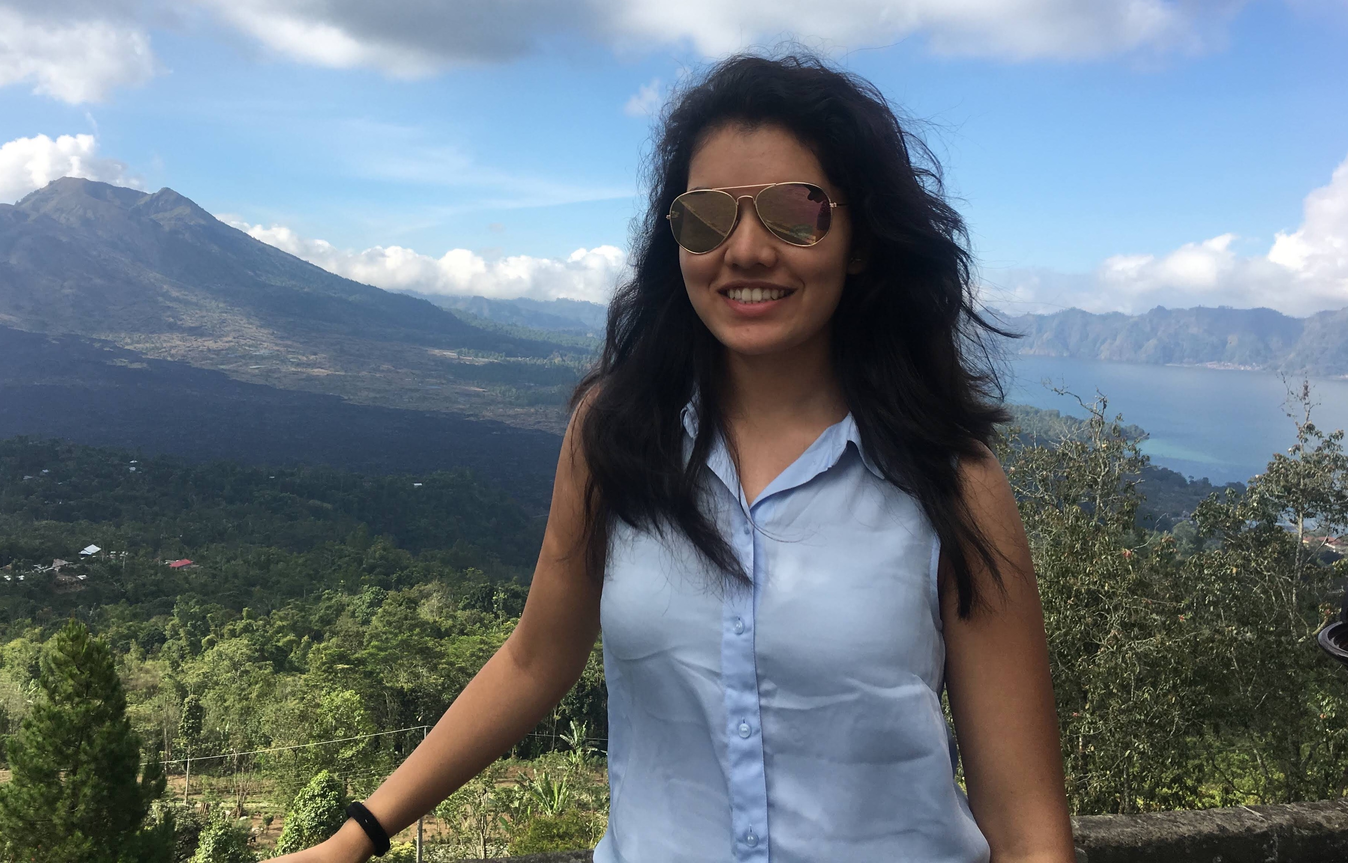
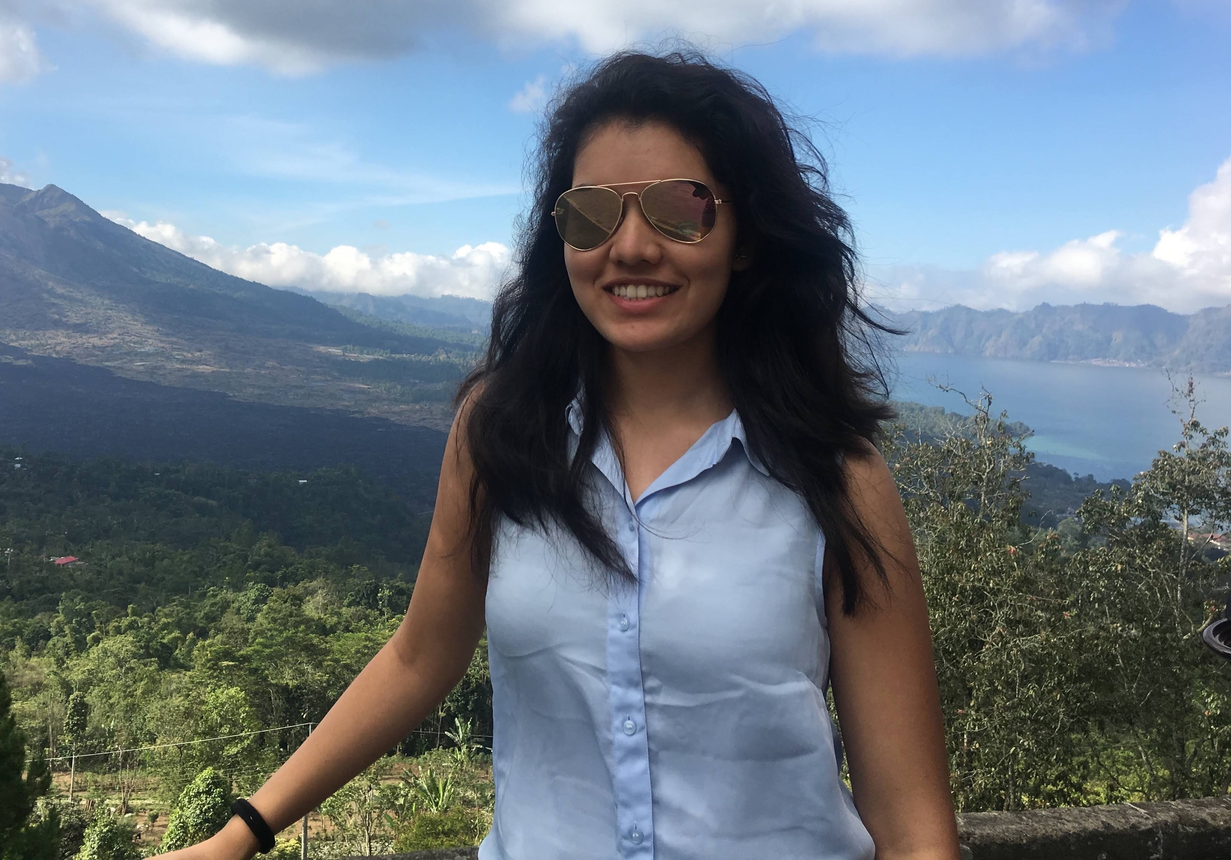
Updates on about me section

diff --git a/index.html b/index.html
@@ -25,17 +25,25 @@
     </section>
 
 
-
-	<section id="about">
-    <h2 class="section-title">About Me</h2>
-    <div class="blue-underline"></div>
-    
-    <p>My name is Swetna Tribhuvan, a Full Stack Software Engineer passionate about building comprehensive digital solutions. With over 2 years of experience, I specialize in creating scalable applications, optimizing database performance, and developing resilient systems that drive business growth and efficiency.</p>
-    
-    <p>My expertise spans across the full development stack, from crafting backend systems with Python and Java to implementing responsive frontends. I focus on delivering high-performance solutions that combine clean code architecture with exceptional user experiences, helping businesses streamline their operations and achieve their digital transformation goals.</p>
-    
-    <p>With a Master's in Computer Science from Rochester Institute of Technology, I've developed skills in cloud computing (AWS), API development, testing, and database optimization. I thrive in Agile environments and enjoy collaborating with cross-functional teams to create innovative solutions that solve complex problems.</p>
+    <section id="about">
+        <h2 class="section-title">About Me</h2>
+        <div class="blue-underline"></div>
+        
+        <div class="about-container">
+            <div class="about-text">
+                <p>My name is Swetna Tribhuvan, a Full Stack Software Engineer passionate about building comprehensive digital solutions. With over 2 years of experience, I specialize in creating scalable applications, optimizing database performance, and developing resilient systems that drive business growth and efficiency.</p>
+        
+                <p>My expertise spans across the full development stack, from crafting backend systems with Python and Java to implementing responsive frontends. I focus on delivering high-performance solutions that combine clean code architecture with exceptional user experiences, helping businesses streamline their operations and achieve their digital transformation goals.</p>
+        
+                <p>With a Master's in Computer Science from Rochester Institute of Technology, I've developed skills in cloud computing (AWS), API development, testing, and database optimization. I thrive in Agile environments and enjoy collaborating with cross-functional teams to create innovative solutions that solve complex problems.</p>
+            </div>
+            <div class="about-image">
+                <img src="images/my_image.jpg" alt="Swetna Tribhuvan">
+            </div>
+        </div>
     </section>
+    
+    
 
 <section id="professional-journey">
     <h2 class="section-title">Professional Journey</h2>

diff --git a/assets/css/style.css b/assets/css/style.css
@@ -539,20 +539,6 @@ section.active {
 }
 
 
-/* About Section */
-.blue-underline {
-    height: 4px;
-    width: 60px;
-    background-color: #4361ee;
-    margin-bottom: 2rem;
-}
-
-#about p {
-    font-size: 1.1rem;
-    line-height: 1.7;
-    color: #e0dddd;
-    margin-bottom: 1.5rem;
-}
 
 /* Professional Journey */
 #professional-journey {
@@ -690,3 +676,91 @@ section.active {
         margin-bottom: 1rem;
     }
 }
+/* About me */
+/* About Me Section */
+.about-me {
+    line-height: 1.8;
+    padding: 20px;
+    background: rgba(255, 255, 255, 0.1);
+    border-radius: 15px;
+    box-shadow: 0 8px 32px rgba(0, 0, 0, 0.1);
+    backdrop-filter: blur(4px);
+    border: 1px solid rgba(255, 255, 255, 0.1);
+    animation: pulseBackground 4s infinite alternate;
+}
+
+/* Adjusted About Section Container */
+#about {
+    display: flex;
+    flex-direction: column;
+    align-items: center;
+    text-align: center;
+    padding: 50px 20px;
+}
+
+.section-title {
+    font-size: 2.5rem;
+    margin-bottom: 20px;
+}
+
+.blue-underline {
+    width: 50px;
+    height: 3px;
+    background-color: blue;
+    margin: 0 auto 20px;
+}
+
+.about-container {
+    display: flex;
+    justify-content: space-between;
+    align-items: stretch;
+    width: 100%;
+    max-width: 1000px;
+    gap: 20px;
+}
+
+.about-text {
+    flex: 1;
+    padding-right: 20px;
+    line-height: 1.6;
+}
+
+.about-image {
+    flex-shrink: 0;
+    width: 400px;
+    height: auto;
+    display: flex;
+    justify-content: center;
+}
+
+/* Image Styling and Hover Animation */
+.about-image img {
+    width: 100%;
+    height: 100%;
+    object-fit: cover;
+    border-radius: 7px;
+    transition: transform 0.5s ease-in-out; /* Smooth transition for scaling */
+}
+
+/* Animation for the Image (on hover) */
+.about-image img:hover {
+    animation: imageAnimate 1s ease-in-out forwards;
+}
+
+/* Keyframes for Image Animation */
+@keyframes imageAnimate {
+    0% {
+        transform: scale(1);
+        opacity: 1;
+    }
+    /* 50% {
+        transform: scale(1.05);
+        opacity: 1;
+    } */
+    100% {
+        transform: scale(1.05);
+        opacity: 1;
+    }
+}
+
+
